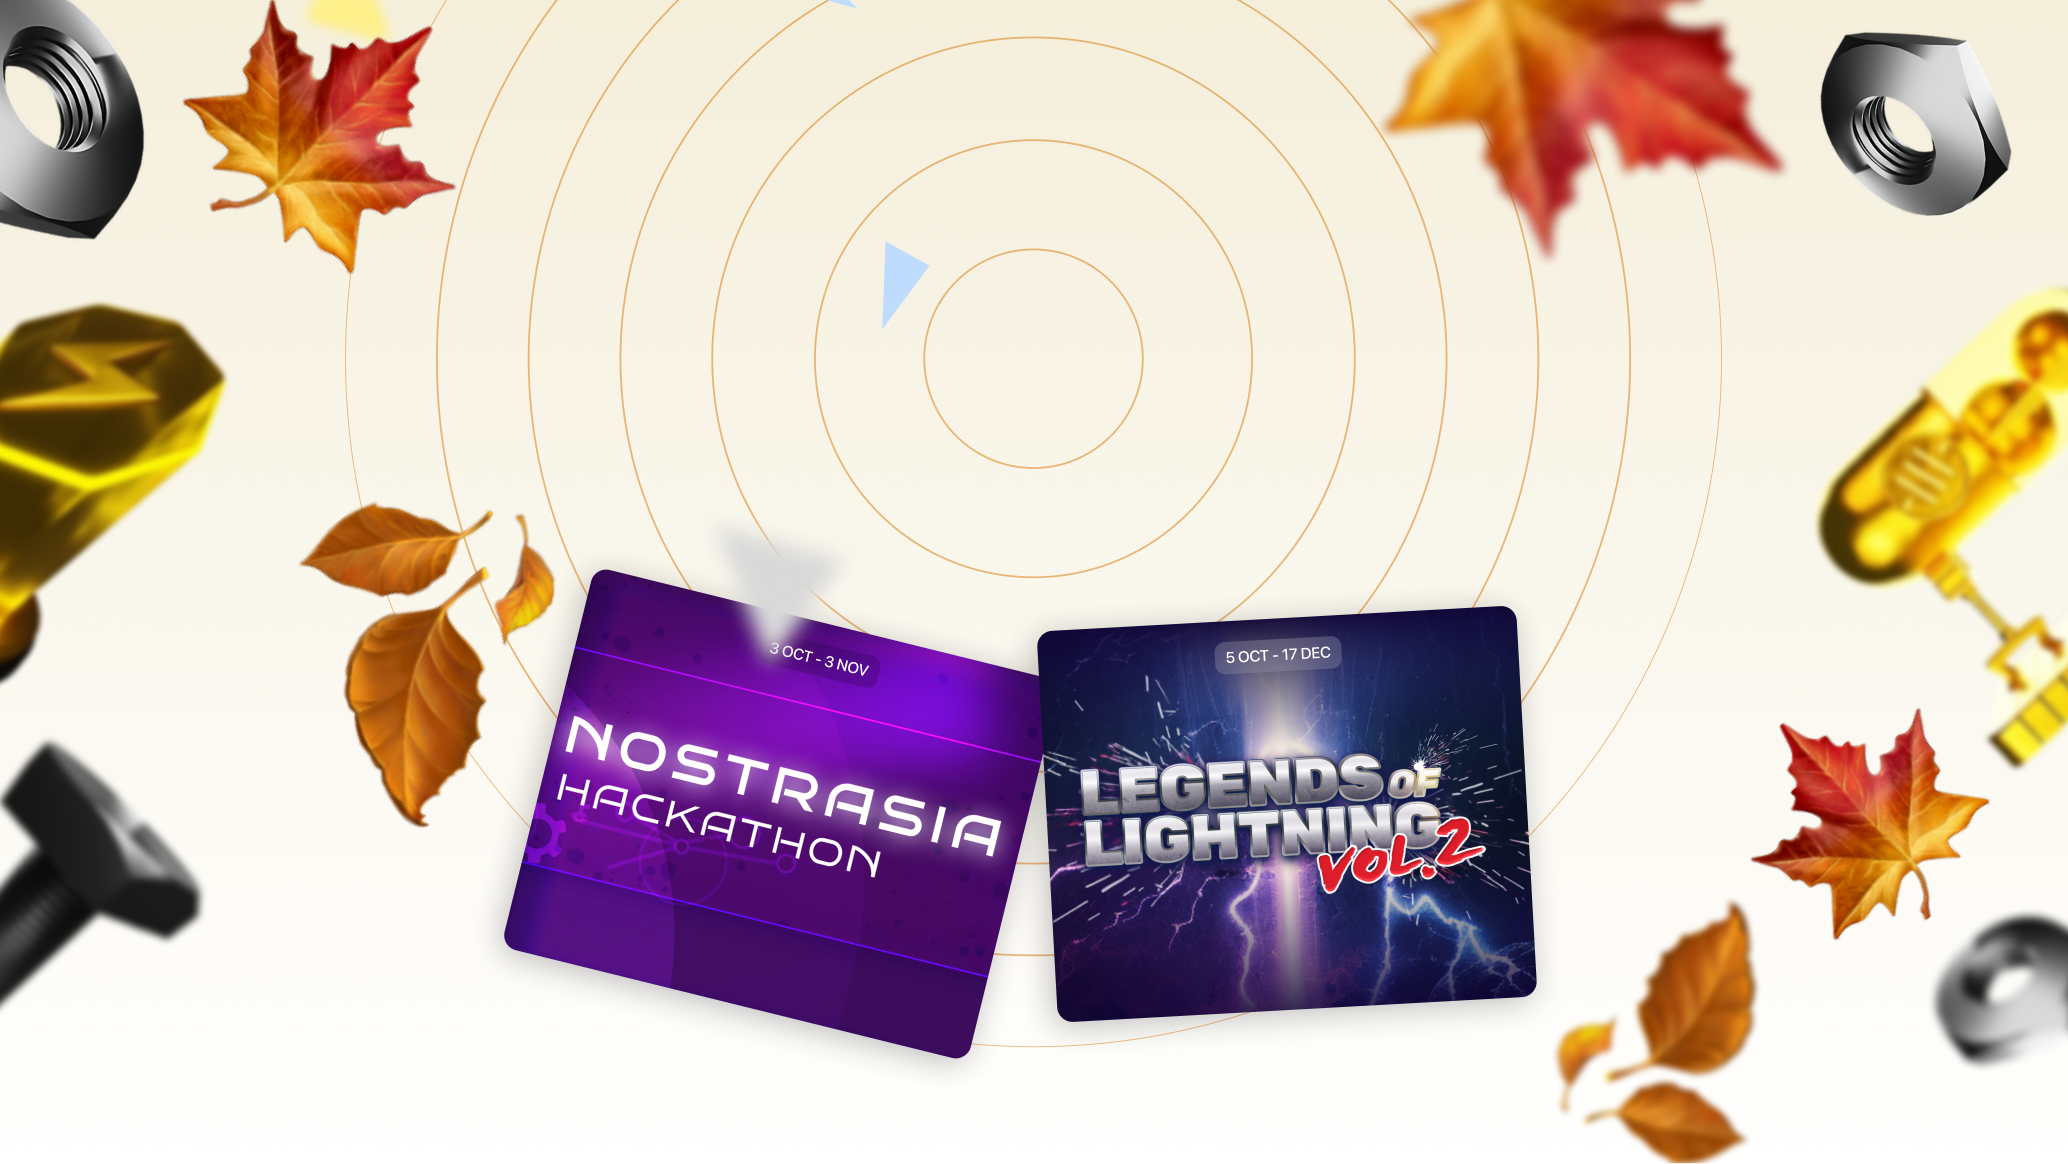
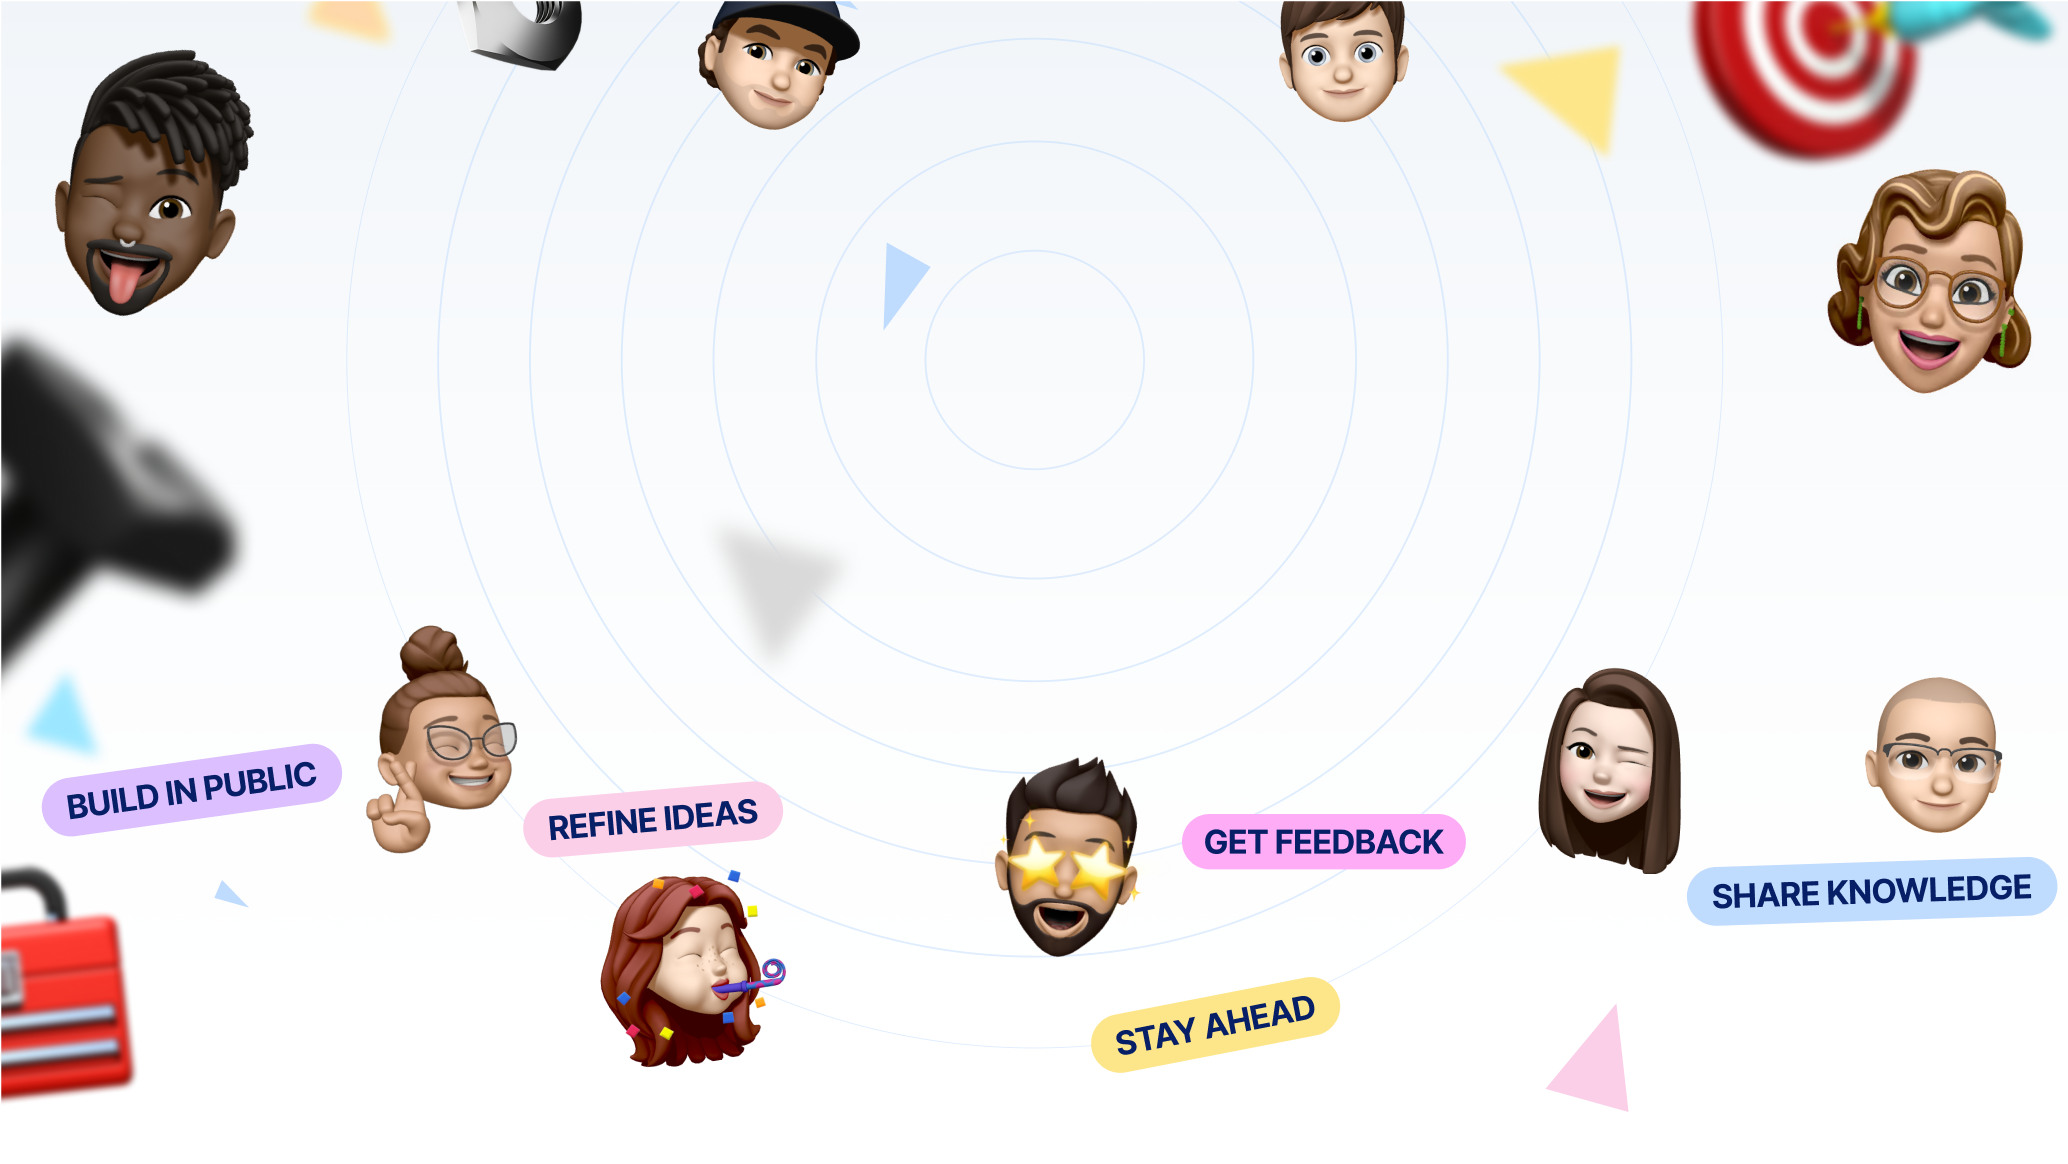
style(home): update landing page for 2024

diff --git a/src/features/LandingPage/LandingPage.tsx b/src/features/LandingPage/LandingPage.tsx
@@ -249,9 +249,10 @@ export function LandingPage() {
           src="assets/images/landing-page-bg.png"
           alt=""
         />
-        <div className="absolute top-1/4 text-center -translate-y-[35%] left-1/2 -translate-x-1/2 uppercase text-[#212649] text-2xl xs:text-3xl sm:!text-5xl md:!text-6xl font-black">
-          <h1>this fall...</h1>
-          <h1 className="whitespace-nowrap"> fun is mandatory!</h1>
+        <div className="absolute top-1/3 text-center -translate-y-[35%] left-1/2 -translate-x-1/2 uppercase text-[#212649] text-2xl xs:text-3xl sm:!text-5xl md:!text-6xl font-black">
+          <h1 className="whitespace-nowrap">BUILDING SOMETHING?</h1>
+          <h1 className="whitespace-nowrap">SHARE YOUR</h1>
+          <h1 className="whitespace-nowrap">MAKER JOURNEY</h1>
         </div>
       </div>
       <div className="max-w-4xl mx-auto text-center">
